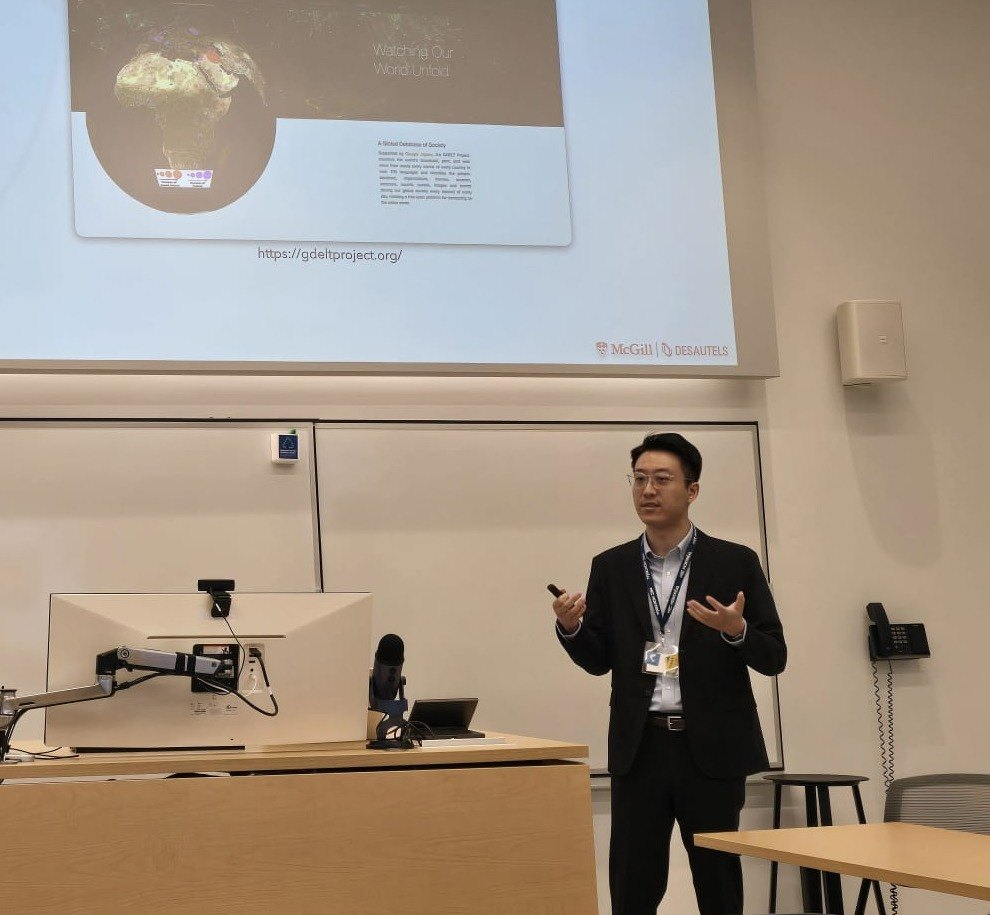
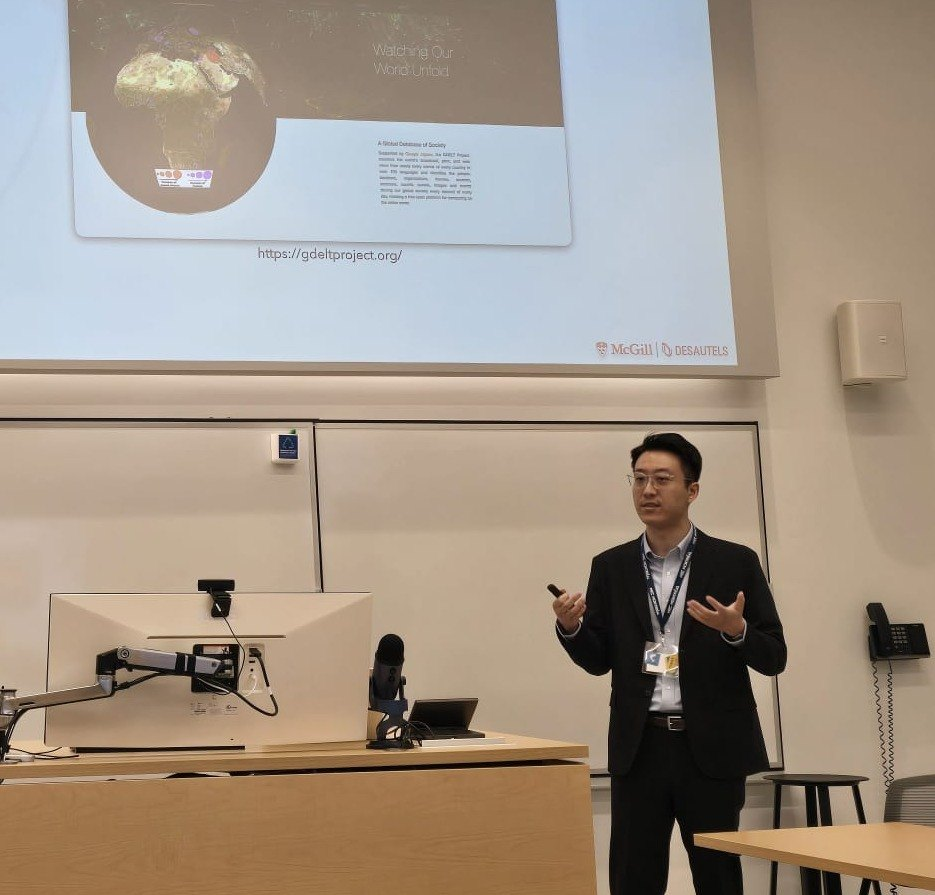
Talk photo: slightly bigger, trim the chair at bottom right

diff --git a/index.html b/index.html
@@ -101,7 +101,7 @@
       </article>
 
       <figure class="talk-photo">
-        <img src="images/talk.jpg" alt="Mingjie Cao presenting research at McGill University" width="990" height="915" loading="lazy">
+        <img src="images/talk.jpg" alt="Mingjie Cao presenting research at McGill University" width="935" height="895" loading="lazy">
       </figure>
 
       <p class="cv-note">For teaching, honours, service, and conference participation, see my <a href="files/Mingjie_Cao_CV.pdf" target="_blank" rel="noopener">CV</a>.</p>

diff --git a/css/style.css b/css/style.css
@@ -400,7 +400,7 @@ body {
 /* ---------- Talk photo (after the papers) ---------- */
 
 .talk-photo {
-  max-width: 18rem;
+  max-width: 22rem;
   margin: 0 auto 2rem;
 }
 

diff --git a/README.md b/README.md
@@ -10,7 +10,7 @@ A small static site (plain HTML + CSS). No build step: what's in this folder is 
 | `css/style.css` | All styling. Colors and fonts are set at the top in `:root` |
 | `files/` | Public PDFs: `Mingjie_Cao_CV.pdf`, paper drafts, slides |
 | `cv/` | CV source (`cv.tex`). Run `./cv/build.sh` to rebuild `files/Mingjie_Cao_CV.pdf` |
-| `images/` | Portrait photo (`portrait.jpg`, 640×800, location data removed), talk photo below the papers (`talk.jpg`, 990×915, no metadata), "MC" tab icons, faint dotted world map (`world-map.svg`, built from public-domain coastline data), link-preview card (`share-v2.jpg`; rename it when the card changes so LinkedIn fetches the new one, 2400×1260, shown when the site is shared) |
+| `images/` | Portrait photo (`portrait.jpg`, 640×800, location data removed), talk photo below the papers (`talk.jpg`, 935×895, no metadata), "MC" tab icons, faint dotted world map (`world-map.svg`, built from public-domain coastline data), link-preview card (`share-v2.jpg`; rename it when the card changes so LinkedIn fetches the new one, 2400×1260, shown when the site is shared) |
 | `favicon.ico` | Browser-tab icon ("MC" in Garamond on navy) |
 | `CNAME` | Your custom domain (added when you set up hosting) |
 | `.nojekyll` | Tells GitHub Pages to serve files as-is |
